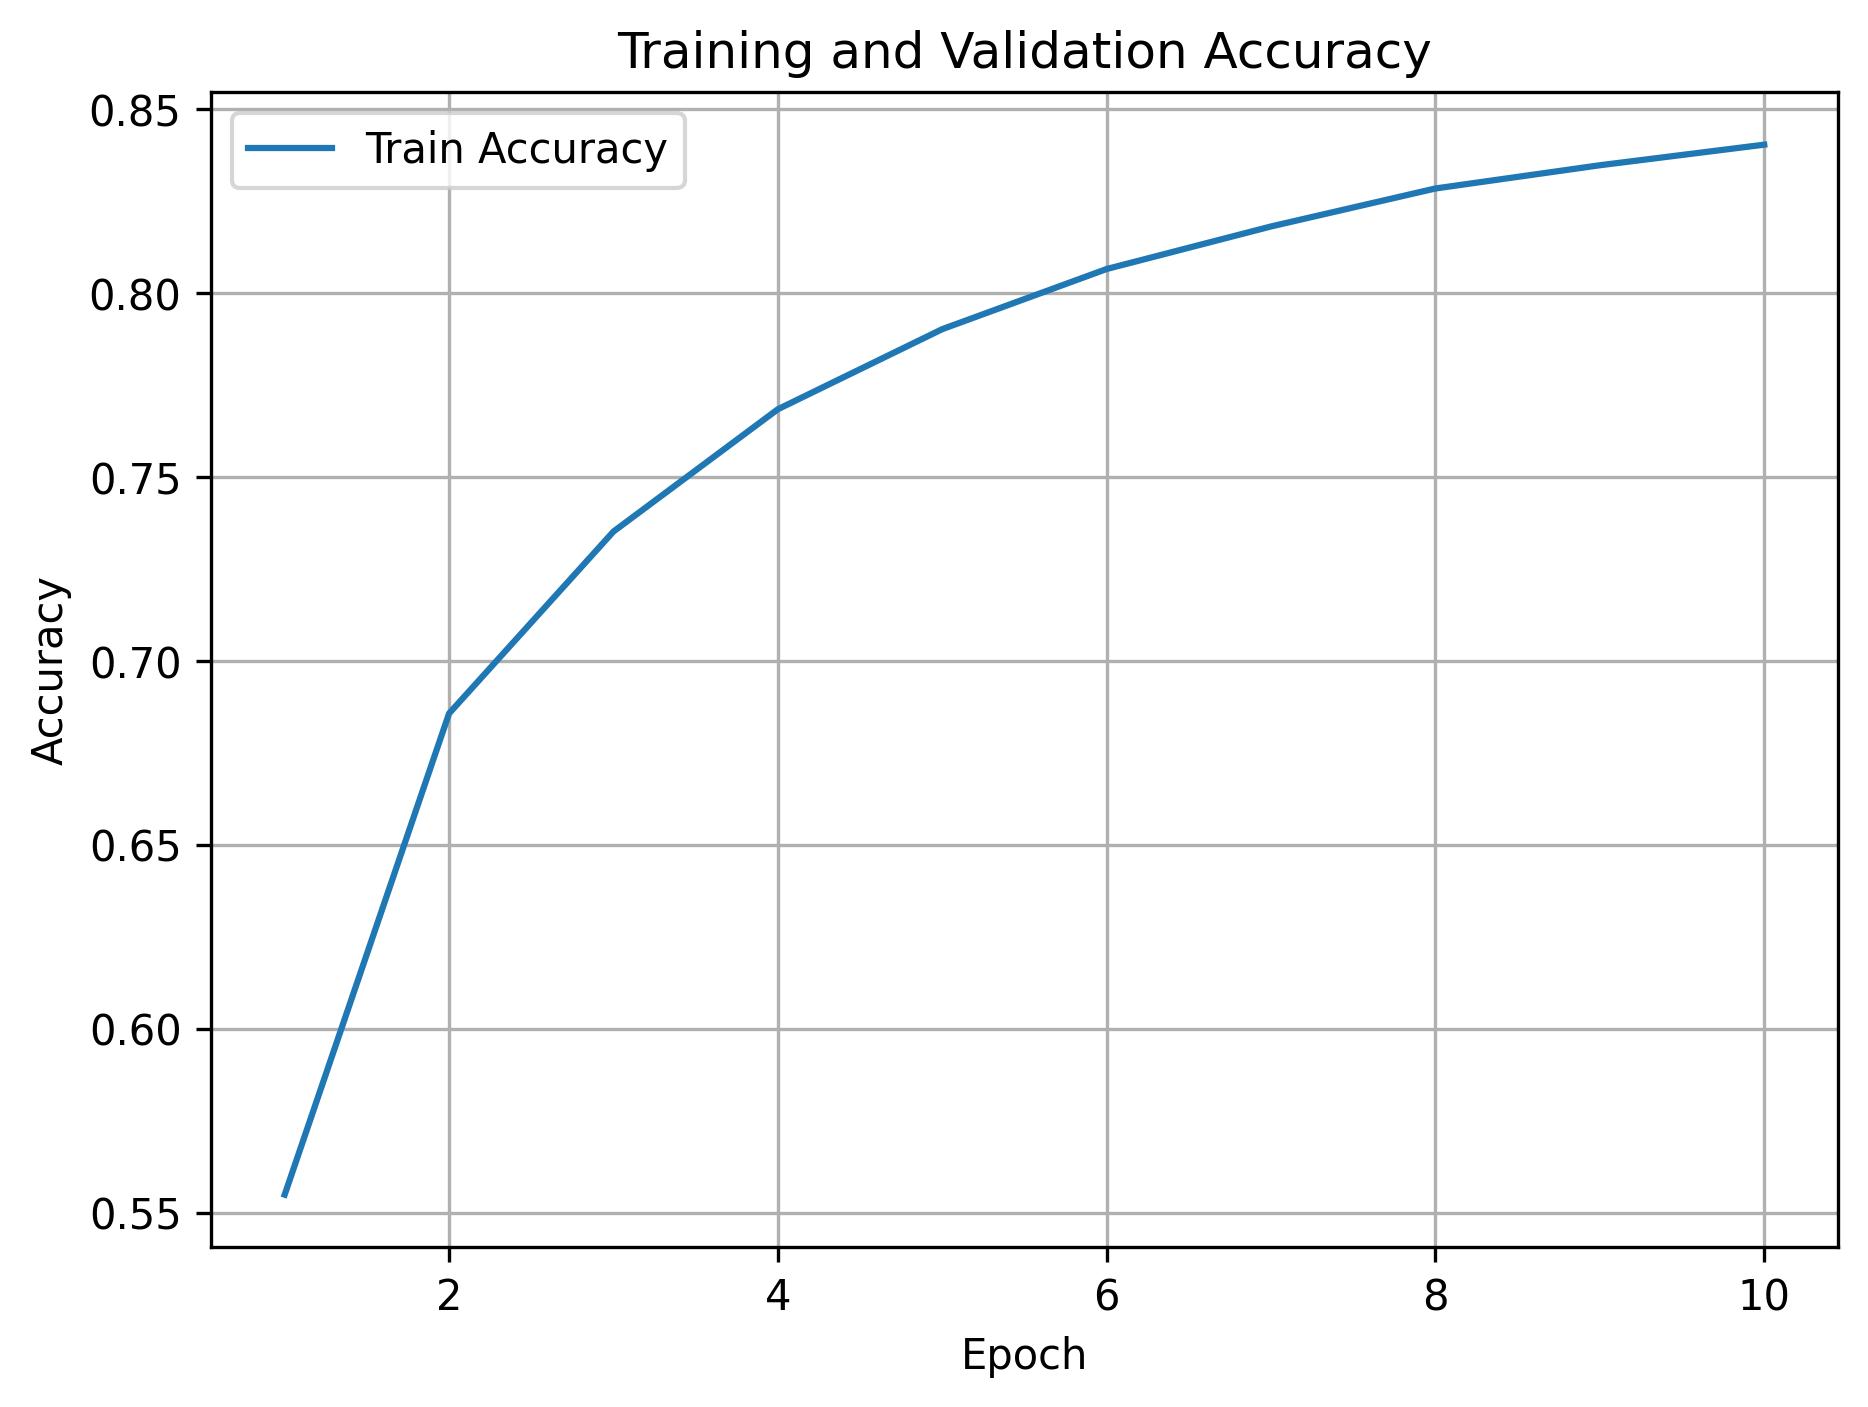
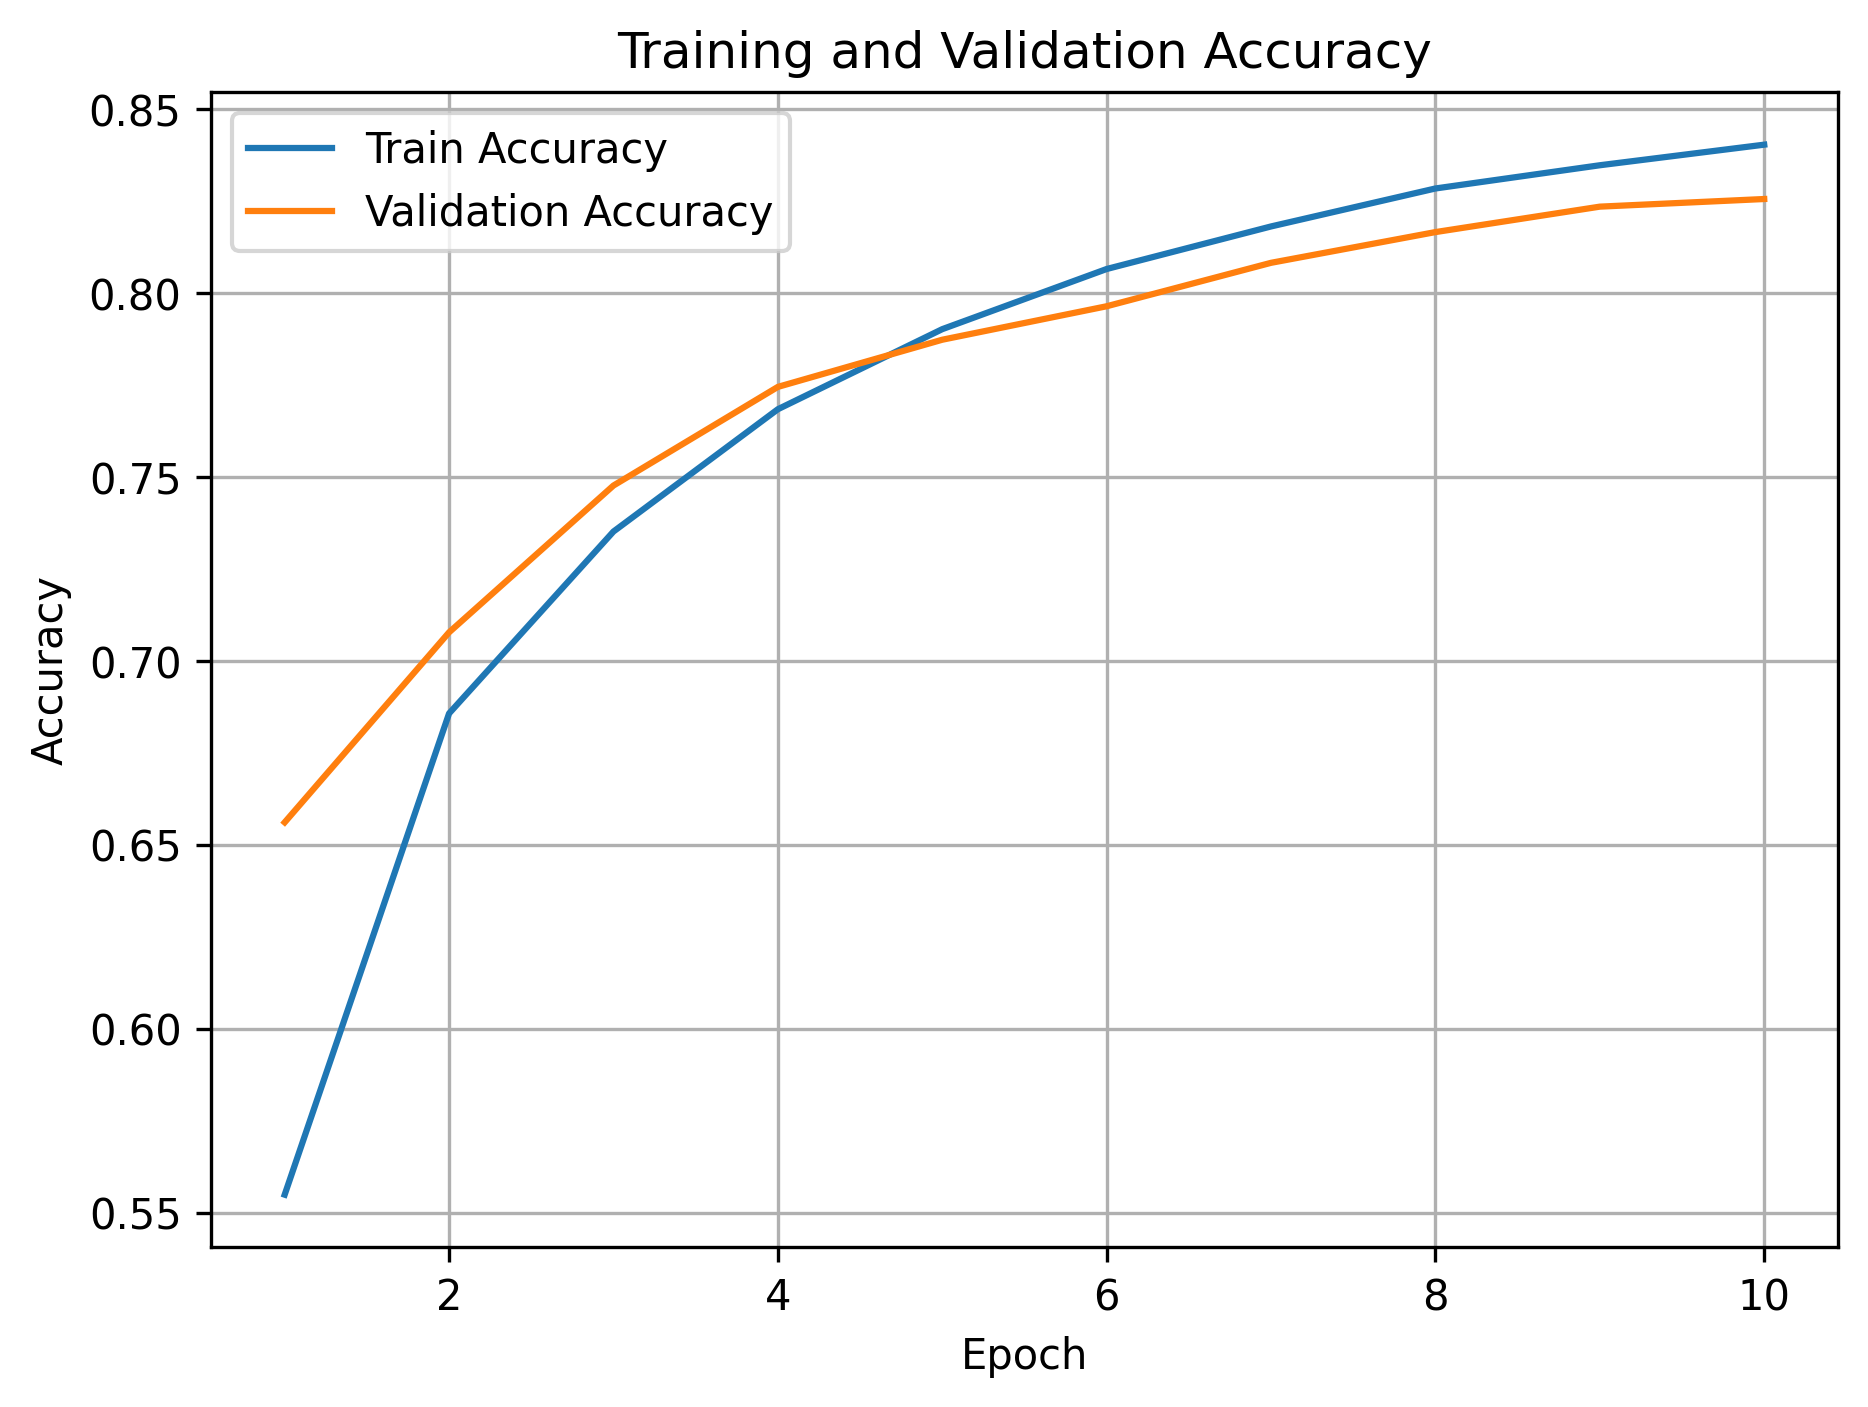
Testing saved metrics to path, working correctly

diff --git a/src/mlscratch/deep_learning/utils/metrics.py b/src/mlscratch/deep_learning/utils/metrics.py
@@ -6,9 +6,9 @@ def compute_metrics_and_confmat(y_true, y_pred, output_dir, threshold=0.5):
     # y_pred = (y_probs >= threshold).astype(int)
     
     acc = float(accuracy_score(y_true, y_pred))
-    prec = float(precision_score(y_true, y_pred, zero_division=0))
-    rec = float(recall_score(y_true, y_pred, zero_division=0))
-    f1 = float(f1_score(y_true, y_pred, zero_division=0))
+    prec = float(precision_score(y_true, y_pred, zero_division=0, average='macro'))
+    rec = float(recall_score(y_true, y_pred, zero_division=0, average='macro'))
+    f1 = float(f1_score(y_true, y_pred, zero_division=0, average='macro'))
     
     cm = confusion_matrix(y_true, y_pred)
     tn, fp, fn, tp = int(cm[0,0]), int(cm[0,1]), int(cm[1,0]), int(cm[1,1])

diff --git a/src/mlscratch/deep_learning/utils/utils.py b/src/mlscratch/deep_learning/utils/utils.py
@@ -3,7 +3,7 @@ import torch
 import json
 
 def load_to_device(path, device):
-  return torch.load(path / "ckpts", map_location=device, weights_only=True)
+  return torch.load(path / "ckpts" / "model.pt", map_location=device, weights_only=True)
 
 def save_model(model, path):
   path = path / "ckpts"
